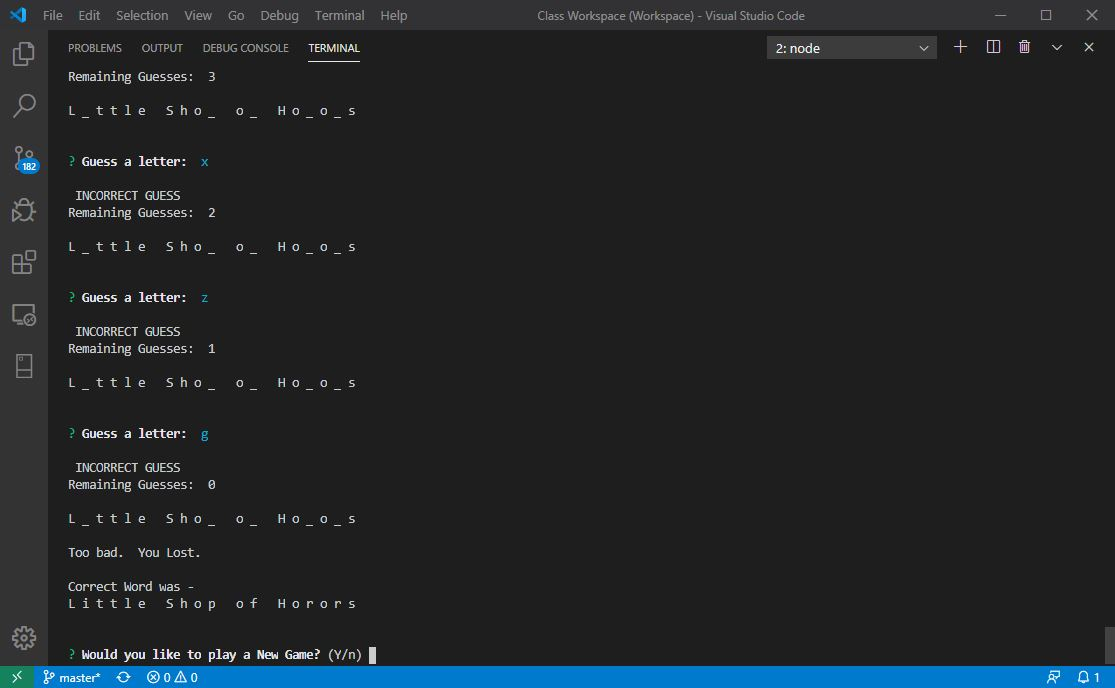
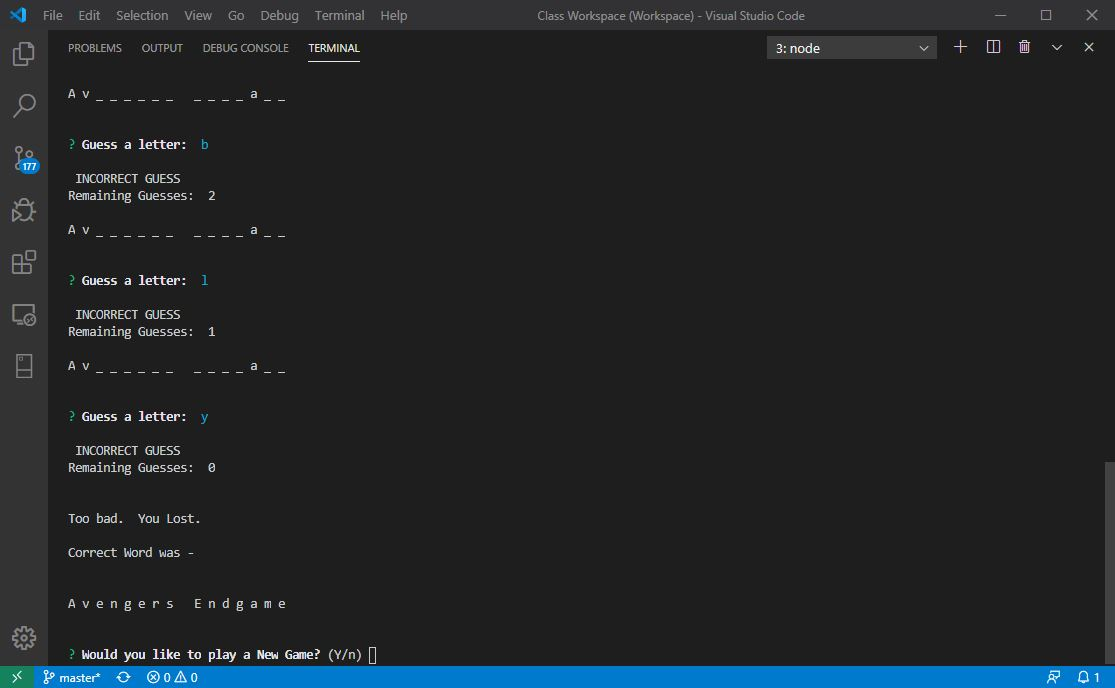
updated some of the game flow and spacing.  Updated the losing game screenshot

diff --git a/Game.js b/Game.js
@@ -74,6 +74,8 @@ function Game(answer) {
         // if the number of letters correctly found === correctLettersNeeded (WINNER!!!)
         if (this.correctLettersNeeded === this.lettersFound) {
             
+            console.log(this.newWord.showWord()); 
+
             console.log("\nCongratulations.  You Won!!!\n")
             this.decision = "win";
 
@@ -124,24 +126,11 @@ function Game(answer) {
         };
 
         this.updateGuessLetters(letter);
-        
-        console.log(this.newWord.showWord()); 
 
     };
     // --------------------------------------------------------------------------------------
     // end of isGuessCorrect method
     // --------------------------------------------------------------------------------------    
-
-    // --------------------------------------------------------------------------------------
-    // method to show the word when a loss was processed
-    // --------------------------------------------------------------------------------------
-    this.losingWord = function() {
-        this.newWord.showWordOnLoss();
-        console.log(this.newWord.showWord());
-    };
-    // --------------------------------------------------------------------------------------
-    // end of losingWord method
-    // --------------------------------------------------------------------------------------
 
 };
 

diff --git a/index.js b/index.js
@@ -148,11 +148,14 @@ function processLetter(check) {
     newGame.isGuessCorrect(check.letter);
     var decision = newGame.checkDecision();
     if (decision === "none") {
+        console.log(newGame.newWord.showWord()); 
         playGame();
     } else if (decision === "loss") {
         // show the word 
         console.log("Correct Word was - ");
-        newGame.losingWord();
+        console.log("\n");
+        newGame.newWord.showWordOnLoss();
+        console.log(newGame.newWord.showWord()); 
         playAgain();   
     } else {
         playAgain();   
